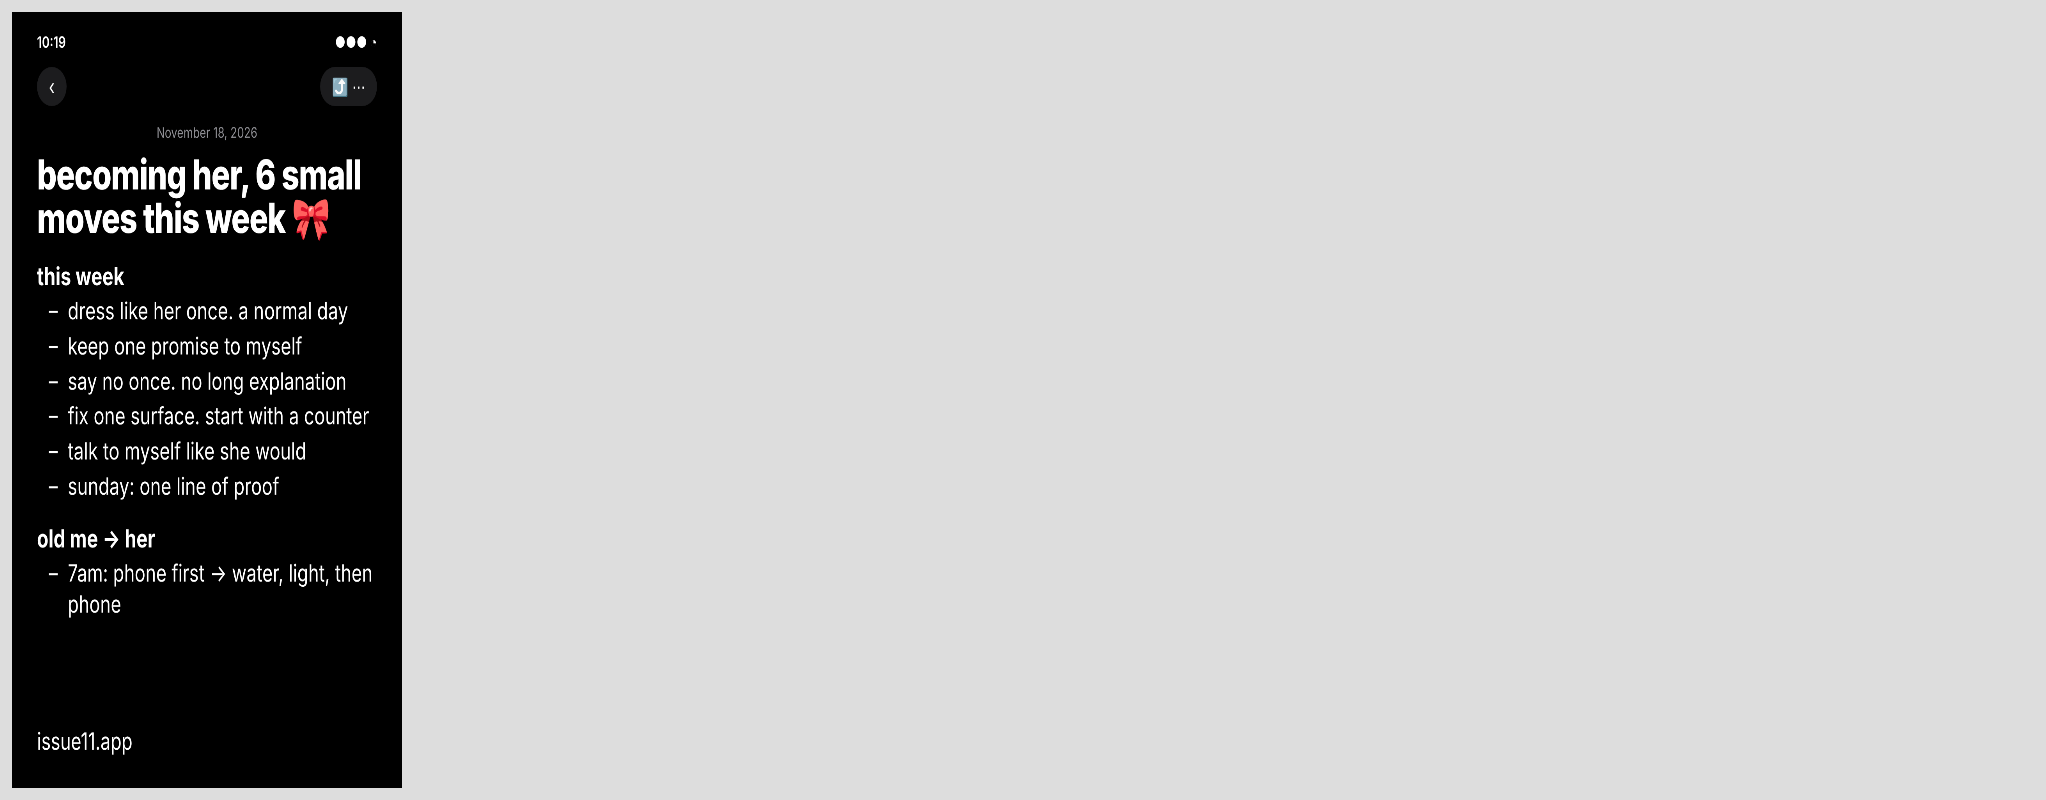
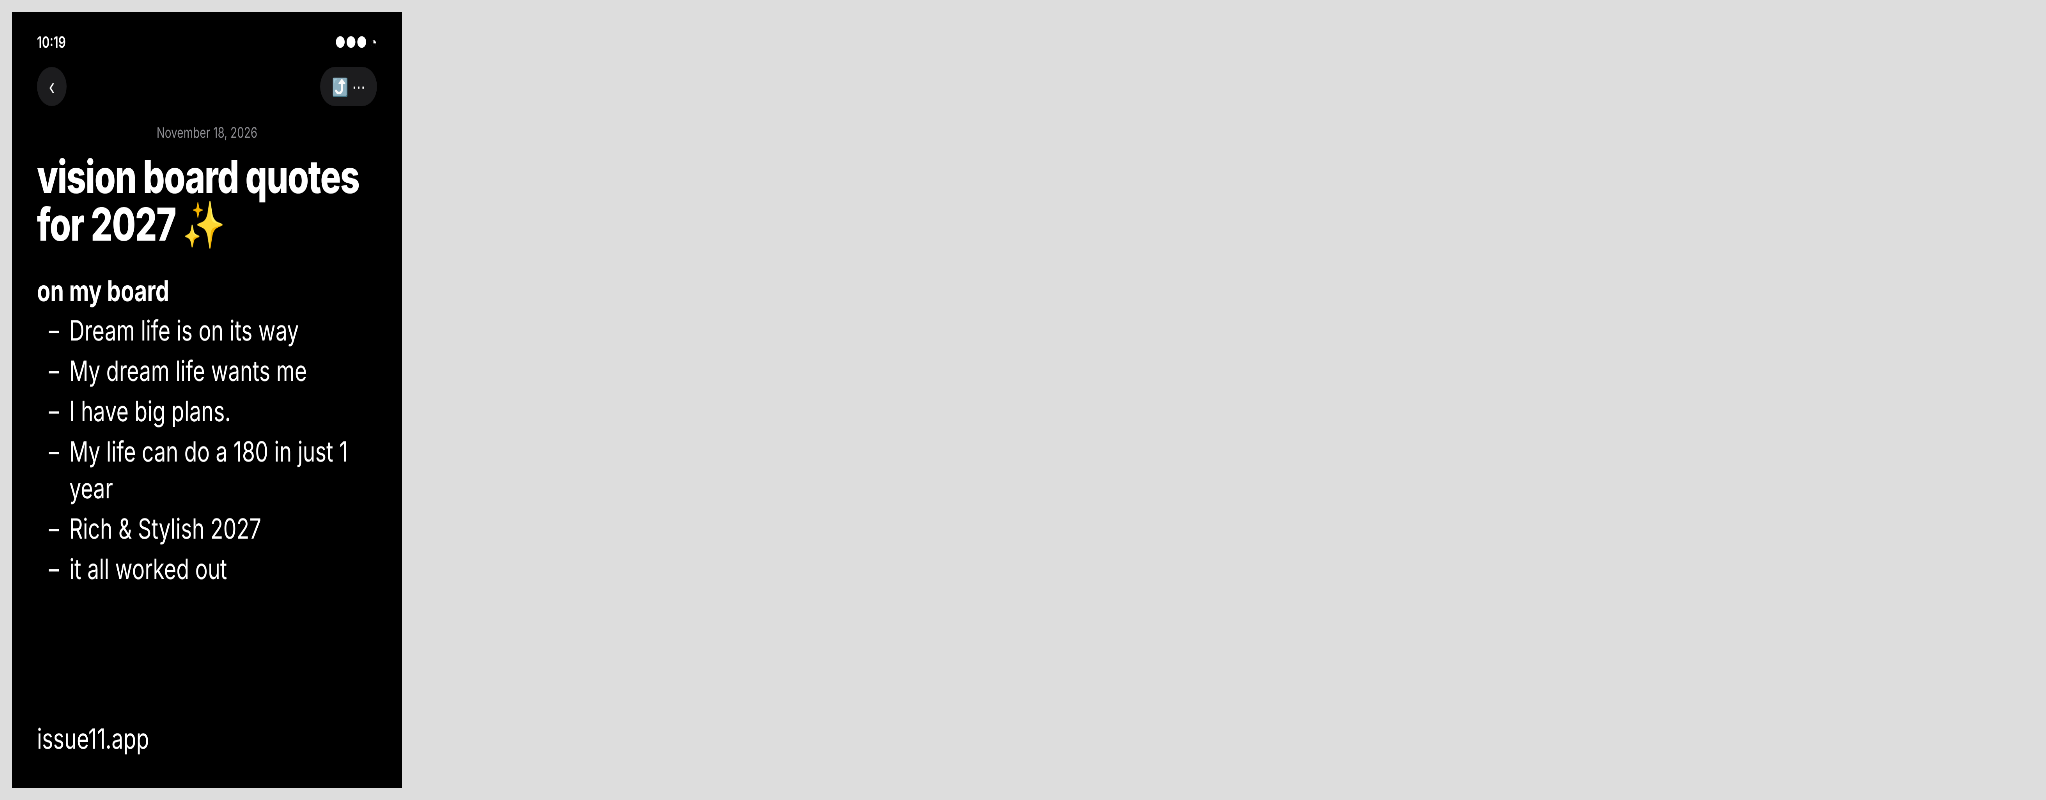
Pinterest: article pin vision-board-quotes (BANK lines only)
Claude-Session: https://claude.ai/code/session_01YGtmQppBCBt9nypMHzxSp1

Changed region(s): [[0.0, 0.1875, 0.1848, 0.625], [0.0, 0.6562, 0.1848, 0.7812], [0.0, 0.9062, 0.0924, 0.9375]]

diff --git a/drafts/pinterest/article-pins/ArticlePinVBQ.dc.html b/drafts/pinterest/article-pins/ArticlePinVBQ.dc.html
@@ -1,0 +1,31 @@
+<!doctype html>
+<html lang="en">
+<head>
+<meta charset="utf-8">
+<title>Article pin · vision-board-quotes · ready for Framer</title>
+<script src="./support.js"></script>
+</head>
+<body>
+<x-dc>
+<helmet>
+<link href="https://fonts.googleapis.com/css2?family=Inter+Tight:wght@400;500;600;700&amp;display=swap" rel="stylesheet">
+<style>body{margin:0}</style>
+</helmet>
+<div style="width:1000px; height:1500px; position:relative; overflow:hidden; background:#000; font-family:'Inter Tight', 'Apple Color Emoji','Noto Color Emoji','Segoe UI Emoji', sans-serif; color:#0D0D0D">
+<div style="position:absolute; inset:0; padding:40px 64px; font-family:-apple-system, 'SF Pro Text', 'Inter Tight', system-ui, sans-serif, 'Apple Color Emoji','Noto Color Emoji','Segoe UI Emoji'; color:#fff">
+  <div style="display:flex; justify-content:space-between; font-size:30px; font-weight:600"><span>10:19</span><span>●●● ◔</span></div>
+  <div style="display:flex; justify-content:space-between; margin-top:30px"><span style="width:76px; height:76px; border-radius:50%; background:#1c1c1e; display:flex; align-items:center; justify-content:center; font-size:40px">‹</span><span style="height:76px; padding:0 30px; border-radius:40px; background:#1c1c1e; display:flex; align-items:center; font-size:34px">⤴ ⋯</span></div>
+  <p style="margin:34px 0 0; text-align:center; font-size:28px; color:#8e8e93">November 18, 2026</p>
+  <h1 style="margin:22px 0 0; font-size:88px; font-weight:800; letter-spacing:-0.02em; line-height:1.05">vision board quotes for 2027 ✨</h1>
+  
+  <p style="margin:48px 0 6px; font-weight:700; font-size:56px">on my board</p><div style="padding-left:30px; font-size:54px; line-height:1.3"><div style="display:flex; gap:26px; margin:8px 0"><span>–</span><span>Dream life is on its way</span></div><div style="display:flex; gap:26px; margin:8px 0"><span>–</span><span>My dream life wants me</span></div><div style="display:flex; gap:26px; margin:8px 0"><span>–</span><span>I have big plans.</span></div><div style="display:flex; gap:26px; margin:8px 0"><span>–</span><span>My life can do a 180 in just 1 year</span></div><div style="display:flex; gap:26px; margin:8px 0"><span>–</span><span>Rich & Stylish 2027</span></div><div style="display:flex; gap:26px; margin:8px 0"><span>–</span><span>it all worked out</span></div></div>
+<p style="position:absolute; left:64px; bottom:60px; margin:0; font-size:54px; line-height:1.3">issue11.app</p></div>
+</div>
+</x-dc>
+<script type="text/x-dc" data-dc-script data-props='{"$preview":{"width":1000,"height":1500}}'>
+class Component extends DCLogic {
+  renderVals() { return {}; }
+}
+</script>
+</body>
+</html>

diff --git a/drafts/pinterest/article-pins/make_ArticlePinVBQ.py b/drafts/pinterest/article-pins/make_ArticlePinVBQ.py
@@ -1,0 +1,13 @@
+# ArticlePinVBQ (vision-board-quotes), Nov 17 scheduled run · phone-notes format (Megan: "the phone notes format works").
+# Quotes: BANK.md lines only, word for word (Megan's rule). The article's own 80 lines are not in BANK, so they are not quoted here (issue11.app/blog/vision-board-quotes).
+# Keyword check: ../2026-11-17-vision-board-quotes-keywords.json (Pinterest autocomplete via Apify).
+import re
+src=open('../batch1/generator.py').read(); ns={}
+exec(src[src.index('B={'):src.index('# --- Format 2')],ns)
+bg,inner=ns['notes']("November 18, 2026","vision board quotes for 2027 ✨",
+  [("on my board",["Dream life is on its way","My dream life wants me","I have big plans.","My life can do a 180 in just 1 year","Rich & Stylish 2027","it all worked out"])],"x")
+inner=inner[:inner.index('<div style="position:absolute; left:0; right:0; bottom:0')].rstrip()
+fs=int(re.search(r'padding-left:30px; font-size:(\d+)px',inner).group(1))
+inner=inner[:-6]+f'<p style="position:absolute; left:64px; bottom:60px; margin:0; font-size:{fs}px; line-height:1.3">issue11.app</p></div>'
+open('ArticlePinVBQ.dc.html','w').write(ns['doc']('Article pin · vision-board-quotes · ready for Framer',inner,bg))
+print('ok',fs)

diff --git a/drafts/pinterest/article-pins/INDEX.md b/drafts/pinterest/article-pins/INDEX.md
@@ -33,6 +33,7 @@ Source boards: Claude Design Lead Magnets canvas (https://claude.ai/artifact/MZr
 | ArticlePinMW | issue11.app/blog/mirror-work | png/ArticlePinMW.png | Mirror Work Affirmations: How to Do It in 2 Minutes (+ What to Say) | Dark iPhone Notes screenshot titled "mirror work affirmations, the 2 minute version" with the article's steps and 2 of its sentences for when affirmations feel fake | Pass 390 + 236 (Nov 18) | ready for Framer |
 | ArticlePinBMA | issue11.app/blog/best-manifestation-apps | png/ArticlePinBMA.png | Best Manifestation Apps: An Honest Comparison by What You Want | Dark iPhone Notes screenshot titled "best manifestation apps, by what i actually want" listing the article's apps by job (affirmations / vision board / actually move), ISSUE11 marked "ours" | Pass 390 + 236 (Nov 18) | ready for Framer |
 | ArticlePinBH | issue11.app/blog/becoming-her | png/ArticlePinBH.png | Becoming Her Checklist: 6 Small Moves This Week (Without Losing You) | Dark iPhone Notes screenshot titled "becoming her, 6 small moves this week" with the article's 6 moves and its 7am old-you-vs-her row | Pass 390 + 236 (Nov 18) | ready for Framer |
+| ArticlePinVBQ | issue11.app/blog/vision-board-quotes | png/ArticlePinVBQ.png | Vision Board Quotes for 2027: Aesthetic Lines to Print | Dark iPhone Notes screenshot titled "vision board quotes for 2027" listing 6 of Megan's BANK lines | Pass 390 + 236 (Nov 18) | ready for Framer |
 
 Keyword check for ArticlePinVBE: Pinterest autocomplete (Apify, Nov 16) suggests "vision board examples" with "inspiration", "aesthetic", "life", "career" and "manifestation" variants. Raw: `../2026-11-16-vision-board-examples-keywords.json`. No volume figure from Pinterest; Google US 11,000/mo per QUEUE.md.
 
@@ -70,7 +71,7 @@ Keyword check for ArticlePinPV: Pinterest autocomplete (Apify, Nov 16) suggests 
 - Alt text on the live site drops the internal "in the live notes voice" / "rewritten in the live notes voice" notes from SCI, HTM, DMW and LOA. The rest is word for word.
 - Pinterest Save button: still NOT added (waiting on Megan).
 
-Next articles without a pin (STRATEGY.md order, then the rest of the sitemap): vision-board-quotes · manifestation-examples · how-to-manifest-a-job · gratitude-journal-prompts · journal-prompts-for-self-discovery · journaling-for-self-love · how-to-manifest-someone (last: the "specific person" angle needs care, rule: no specific people).
+Next articles without a pin (STRATEGY.md order, then the rest of the sitemap): manifestation-examples · how-to-manifest-a-job · gratitude-journal-prompts · journal-prompts-for-self-discovery · journaling-for-self-love · how-to-manifest-someone (last: the "specific person" angle needs care, rule: no specific people).
 
 ## Nov 17 publish note
 - All 18 images were added to their articles' Content, as the first block after the intro paragraph. NYVB2 sits before "How to Host a Vision Board Party". Published as Framer version 699f2d432.
@@ -97,3 +98,5 @@ Keyword check for ArticlePinMW: plain "mirror work" on Pinterest means embroider
 Keyword check for ArticlePinBMA: Pinterest autocomplete (Apify, Nov 18) suggests "best apps for manifestation", "best manifestation apps", "free manifestation apps" and "apps for manifestation". Raw: `../2026-11-18-manifestation-apps-keywords.json`. App names and their one-line strengths are from the article; ISSUE11 is labelled "(ours)" as the article does. Third-party names are used only to describe the apps (no logos).
 
 Keyword check for ArticlePinBH: Pinterest autocomplete (Apify, Nov 18) suggests "becoming her checklist", "becoming her journal prompts", "becoming her vision board", "becoming her challenge" and "becoming her mindset". Raw: `../2026-11-18-becoming-her-keywords.json`. All 6 moves and the 7am row are from the article. No BANK quote.
+
+Keyword check for ArticlePinVBQ: Pinterest autocomplete (Apify, Nov 18) suggests "vision board quotes aesthetic", "vision board quotes motivation", "vision board quotes printables", "vision board quotes manifestation" and "2026 vision board quotes". Raw: `../2026-11-18-vision-board-quotes-keywords.json`. Flag for Megan: the article's 80 original lines are not in BANK.md, so the pin uses 6 BANK lines word for word (Dream life is on its way · My dream life wants me · I have big plans. · My life can do a 180 in just 1 year · Rich & Stylish 2027 · it all worked out). If you add some of the article's lines to BANK, a second version can quote them.

diff --git a/drafts/pinterest/HOURLY-LOG.md b/drafts/pinterest/HOURLY-LOG.md
@@ -1,5 +1,6 @@
 # Pinterest agent: hourly log (newest first)
 
+- 2026-11-18 16:2x UTC · Job 1: made ArticlePinVBQ (vision-board-quotes) in the phone-notes format with 6 BANK lines (the article's own quotes aren't in BANK, flagged in INDEX.md). Canvas v162 next to BH, INDEX.md "ready for Framer". Visual QA 390 + 236 passed after one fix (title shortened so the emoji didn't sit alone).
 - 2026-11-18 12:2x UTC · Job 1: made ArticlePinBH (becoming-her) in the phone-notes format with the article's 6 moves. Canvas v161 next to BMA, INDEX.md "ready for Framer". Visual QA 390 + 236 passed. Refreshed the "next articles" list from the live sitemap (7 left).
 - 2026-11-18 08:2x UTC · Job 1: made ArticlePinBMA (best-manifestation-apps) in the phone-notes format, apps grouped by job as in the article, ISSUE11 marked "(ours)". Canvas v160 next to MW, INDEX.md "ready for Framer". Visual QA 390 + 236 passed after one fix (a 4th section ran into issue11.app, so I cut it).
 - 2026-11-18 04:2x UTC · Canvas has room again (Megan cleared 143 boards), so ArticlePinSM is now on the canvas (v158). Job 1: made ArticlePinMW (mirror-work) in the phone-notes format, keyword-led with "mirror work affirmations" because plain "mirror work" means embroidery on Pinterest. Canvas v159, INDEX.md "ready for Framer". Visual QA 390 + 236 passed.
